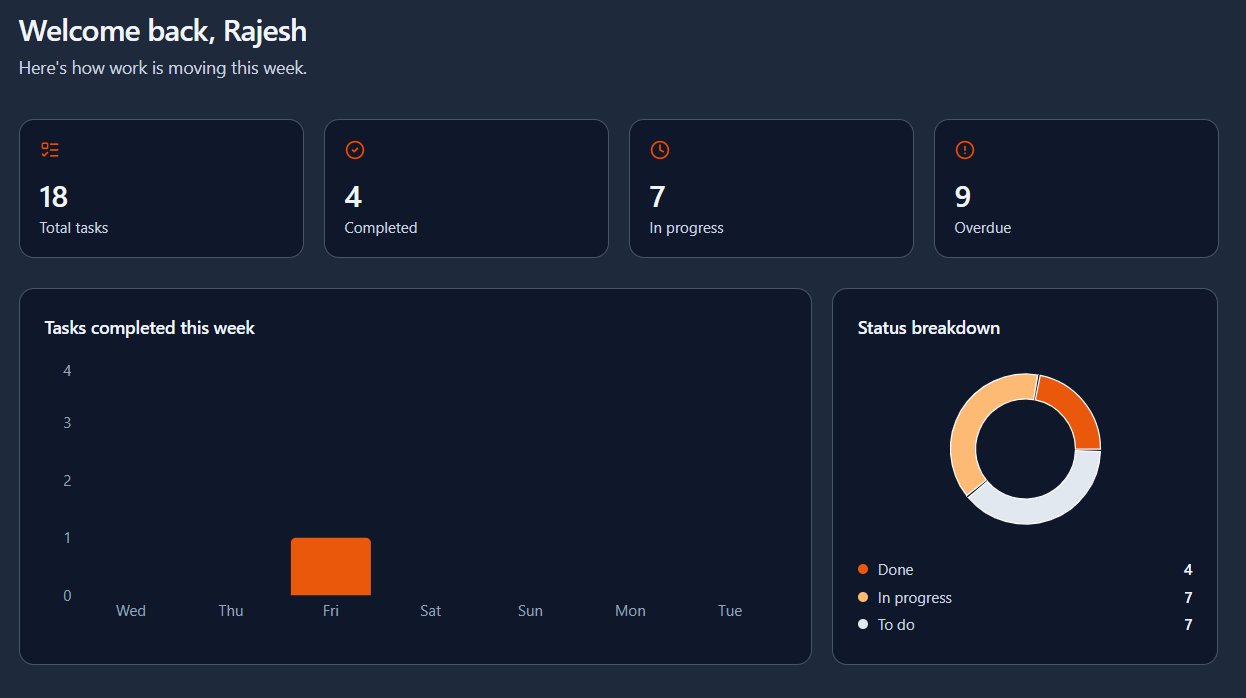
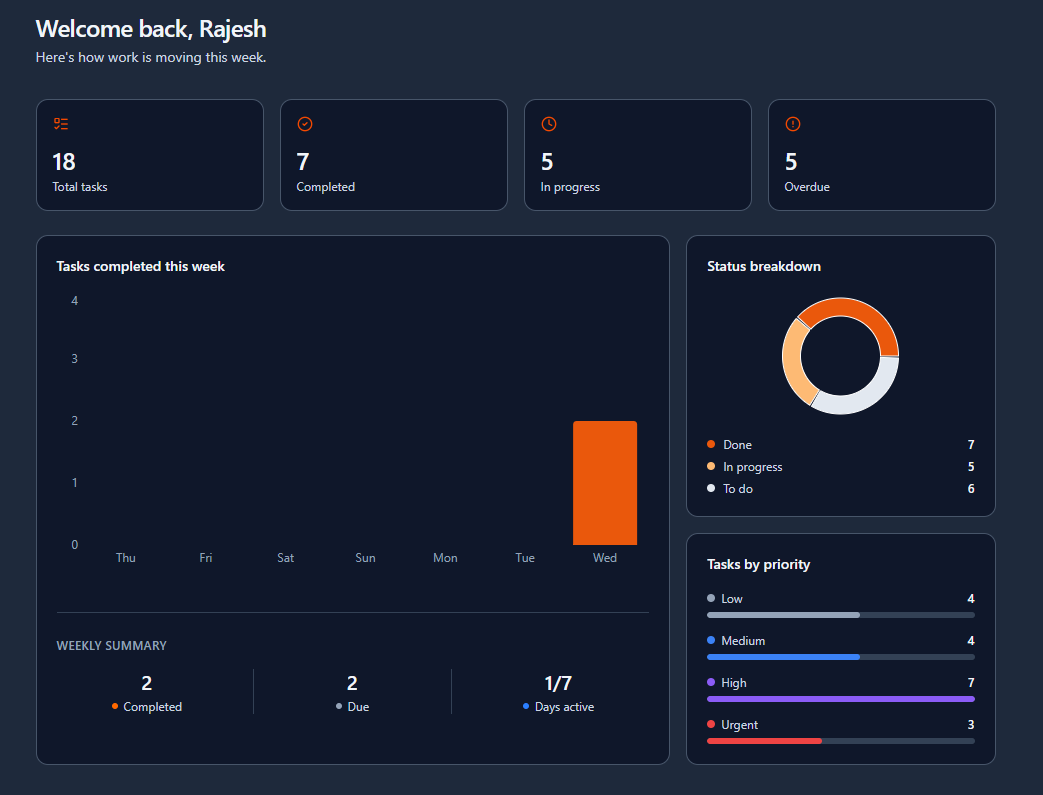
feat: add theme-aware product tour to landing page

diff --git a/src/components/Home/ProductTour.tsx b/src/components/Home/ProductTour.tsx
@@ -1,0 +1,143 @@
+import { useState } from "react";
+import { AnimatePresence, motion } from "framer-motion";
+import Reveal from "../ui/Reveal";
+import { useTheme } from "../../context/useTheme";
+import dashboardLight from "../../assets/dashboardLight.png";
+import dashboardDark from "../../assets/dashboardDark.png";
+import taskListLight from "../../assets/taskListLight.png";
+import taskListDark from "../../assets/taskListDark.png";
+import taskKanbanLight from "../../assets/taskKanbanLight.png";
+import taskKanbanDark from "../../assets/taskKanbanDark.png";
+import calendarLight from "../../assets/calendarLight.png";
+import calendarDark from "../../assets/calendarDark.png";
+import adminLight from "../../assets/adminLight.png";
+import adminDark from "../../assets/adminDark.png";
+
+const views = [
+  {
+    id: "overview",
+    label: "Overview",
+    light: dashboardLight,
+    dark: dashboardDark,
+    title: "Plan your week at a glance",
+    description:
+      "Completion trends, status breakdown, and priority mix all on one screen.",
+  },
+  {
+    id: "task-list",
+    label: "Task list",
+    light: taskListLight,
+    dark: taskListDark,
+    title: "List view — the full picture",
+    description:
+      "Search, filter, and edit tasks in place without leaving the page.",
+  },
+  {
+    id: "kanban",
+    label: "Kanban board",
+    light: taskKanbanLight,
+    dark: taskKanbanDark,
+    title: "Kanban — move work forward",
+    description:
+      "Drag tasks across To do, In progress, and Done with realtime sync for the whole team.",
+  },
+  {
+    id: "calendar",
+    label: "Calendar",
+    light: calendarLight,
+    dark: calendarDark,
+    title: "Calendar — see deadlines in context",
+    description:
+      "Every due date on one month grid, so you can plan around what's coming.",
+  },
+  {
+    id: "admin",
+    label: "Admin",
+    light: adminLight,
+    dark: adminDark,
+    title: "Admin — keep the workspace healthy",
+    description:
+      "Manage users, roles, and contact messages from one dedicated panel.",
+  },
+];
+
+export default function ProductTour() {
+  const [activeIndex, setActiveIndex] = useState(0);
+  const { theme } = useTheme();
+  const isDark = theme === "dark";
+  const active = views[activeIndex];
+  const activeSrc = isDark ? active.dark : active.light;
+
+  return (
+    <section className="mx-auto max-w-7xl px-4 py-20 sm:px-6 lg:px-8 lg:py-28">
+      <Reveal className="mx-auto max-w-2xl text-center">
+        <p className="text-sm font-medium uppercase tracking-widest text-orange-600">
+          Product tour
+        </p>
+        <h2 className="mt-4 text-3xl font-semibold tracking-tight text-slate-900 sm:text-4xl">
+          See it in action
+        </h2>
+        <p className="mt-4 text-lg text-slate-500">
+          A quick walk through the workspace — every screen your team will use.
+        </p>
+      </Reveal>
+
+      <Reveal delay={0.1}>
+        <div
+          role="tablist"
+          aria-label="Product views"
+          className="mt-12 flex flex-wrap justify-center gap-2"
+        >
+          {views.map((view, i) => (
+            <button
+              key={view.id}
+              role="tab"
+              id={`tour-tab-${view.id}`}
+              aria-selected={i === activeIndex}
+              aria-controls={`tour-panel-${view.id}`}
+              onClick={() => setActiveIndex(i)}
+              className={`rounded-full border px-4 py-2 text-sm font-medium transition ${
+                i === activeIndex
+                  ? "border-orange-600 bg-orange-600 text-white shadow-sm"
+                  : "border-slate-200 bg-white text-slate-600 hover:border-slate-300 hover:text-slate-900"
+              }`}
+            >
+              {view.label}
+            </button>
+          ))}
+        </div>
+
+        <AnimatePresence mode="wait">
+          <motion.div
+            key={active.id}
+            role="tabpanel"
+            id={`tour-panel-${active.id}`}
+            aria-labelledby={`tour-tab-${active.id}`}
+            initial={{ opacity: 0, y: 8 }}
+            animate={{ opacity: 1, y: 0 }}
+            exit={{ opacity: 0, y: -8 }}
+            transition={{ duration: 0.25, ease: "easeOut" }}
+            className="mx-auto mt-8 max-w-4xl"
+          >
+            <div className="overflow-hidden rounded-xl bg-white ring-1 ring-slate-900/5 shadow-2xl shadow-slate-900/10">
+              <img
+                src={activeSrc}
+                alt={`${active.title} screenshot`}
+                className="block h-auto w-full"
+                loading="lazy"
+              />
+            </div>
+            <div className="mt-6 text-center">
+              <h3 className="text-lg font-semibold text-slate-900">
+                {active.title}
+              </h3>
+              <p className="mx-auto mt-1.5 max-w-xl text-sm leading-relaxed text-slate-500">
+                {active.description}
+              </p>
+            </div>
+          </motion.div>
+        </AnimatePresence>
+      </Reveal>
+    </section>
+  );
+}

diff --git a/src/Pages/Home.tsx b/src/Pages/Home.tsx
@@ -7,6 +7,7 @@ import Comparison from "../components/Home/Comparision";
 import Integrations from "../components/Home/Integrations";
 import HowItWorks from "../components/Home/HowItWorks";
 import Features from "../components/Home/Features";
+import ProductTour from "../components/Home/ProductTour";
 import Testimonial from "../components/Home/Testimonial";
 import FAQ from "../components/Home/Faq";
 import { faqs } from "../utils/faqs";
@@ -112,6 +113,7 @@ export default function Home() {
 
       <Comparison />
       <Features />
+      <ProductTour />
       <Integrations />
       <HowItWorks />
 
